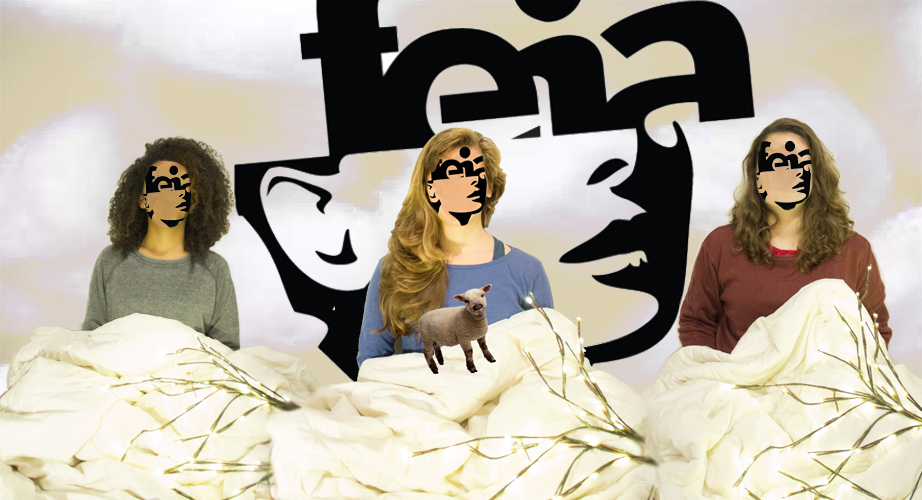
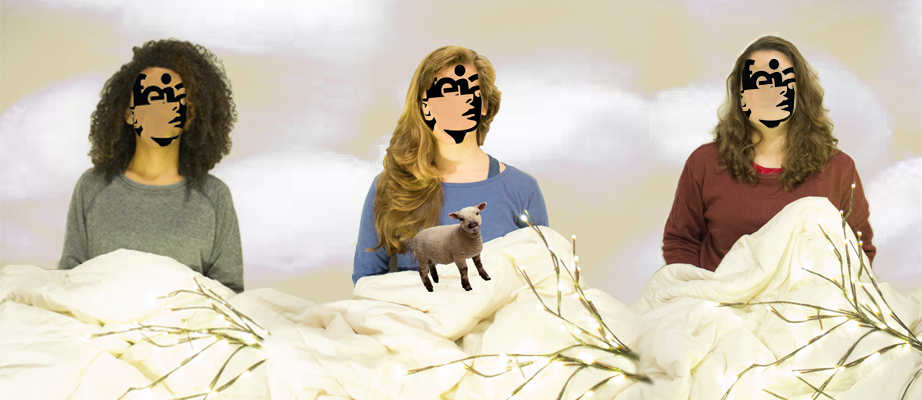
Mudanca na imagem de fundo

diff --git a/css/style.css b/css/style.css
@@ -791,6 +791,7 @@
 			text-decoration: none;
 			font-size: 2.8em;
 			font-weight: 600;
+			color: #2C3031;
 		}
 
 /*********************************************************************************/
